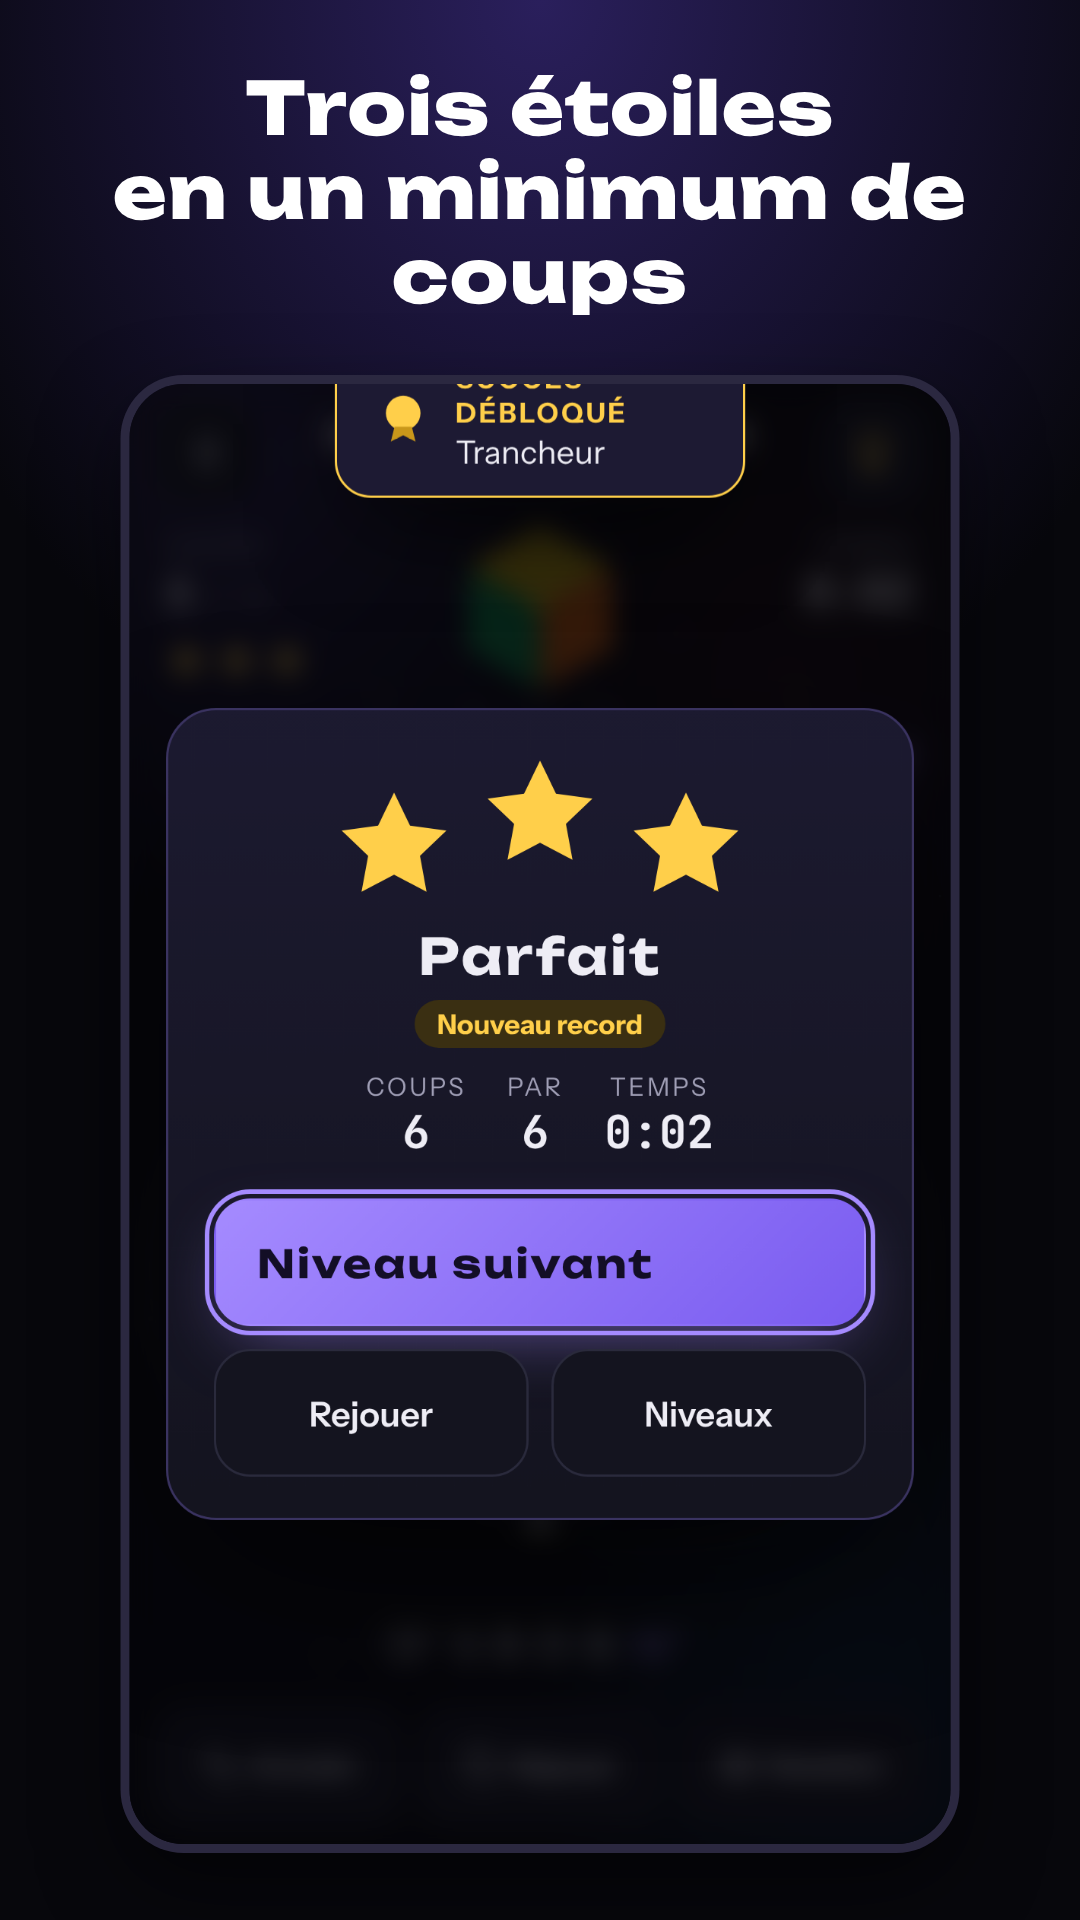
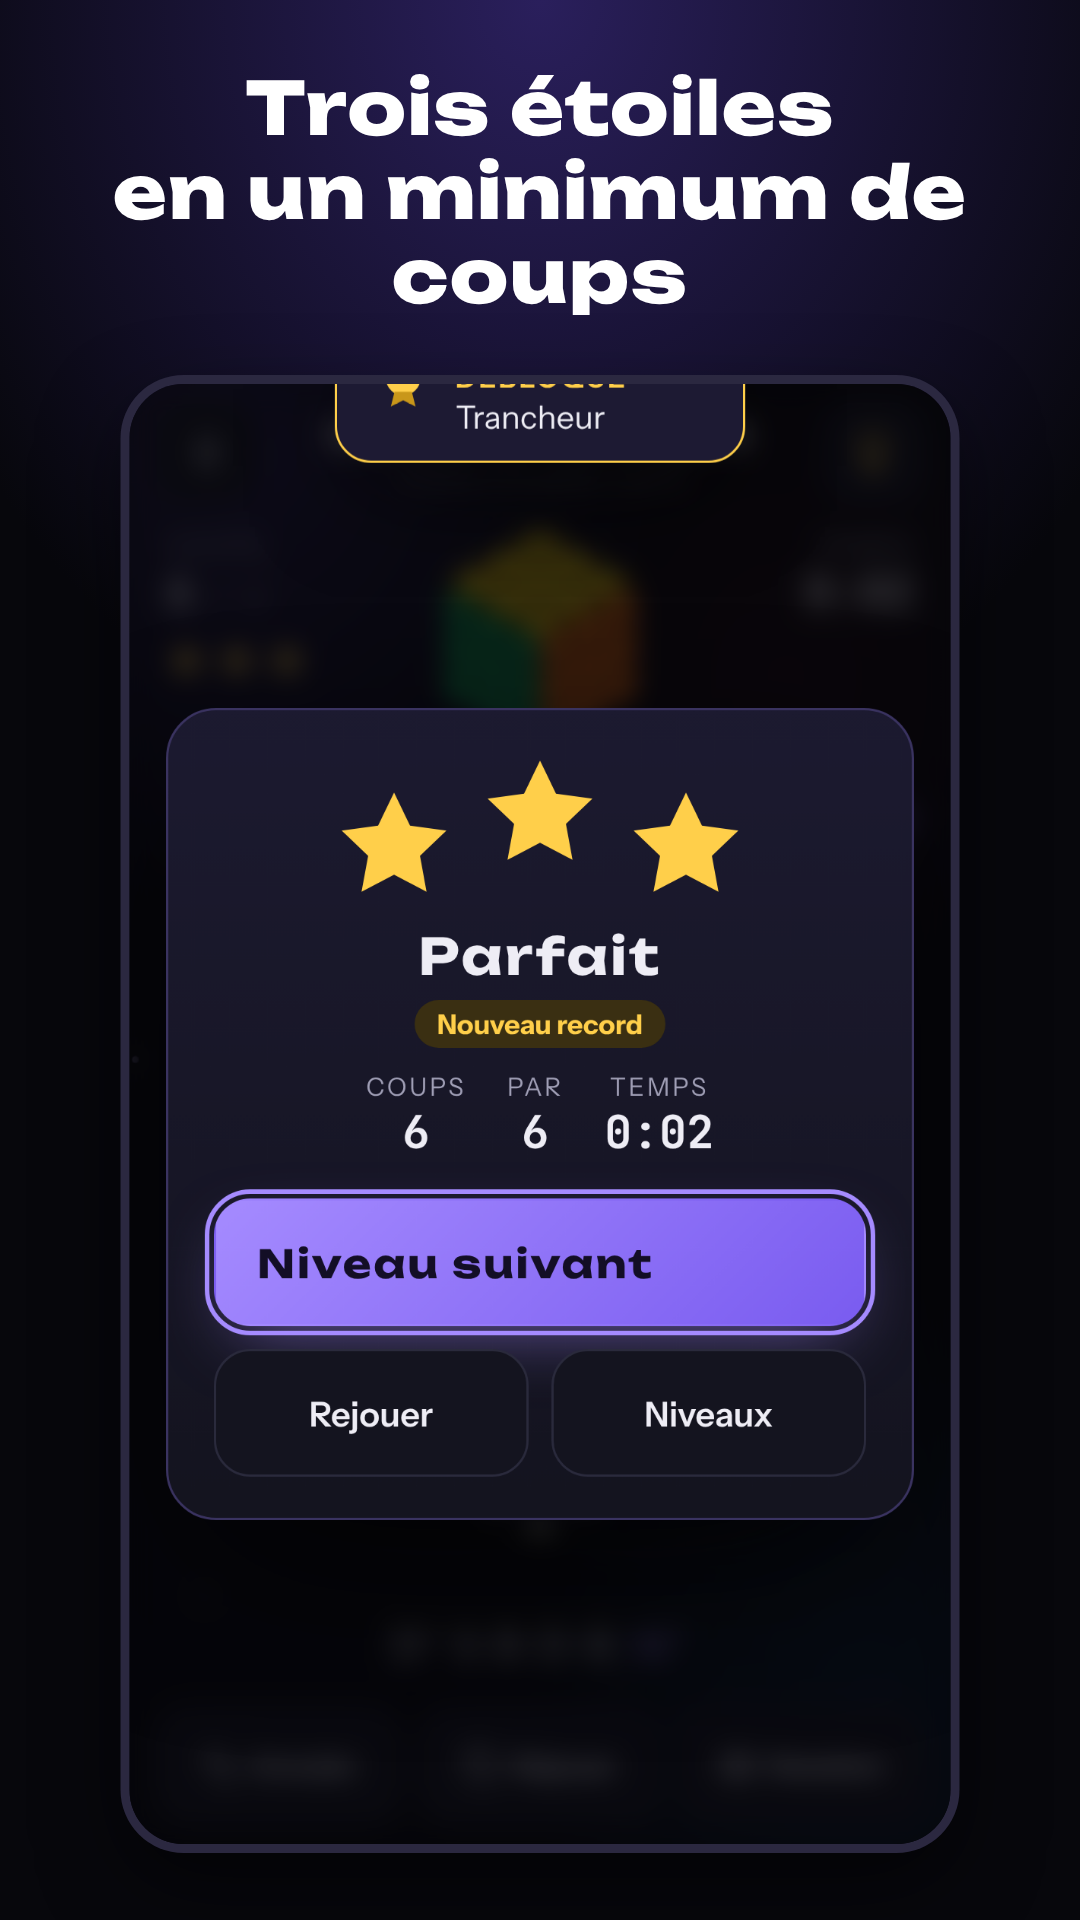
Plateau : une marge de chaque côté, les cercles ne frôlent plus les bords ; cube de nouveau jusqu'à 150 px
Claude-Session: https://claude.ai/code/session_0149xvqQAFsWoXJkF64USQEK

Changed region(s): [[0.3056, 0.1875, 0.7028, 0.375]]

diff --git a/orbicube/www/index.html b/orbicube/www/index.html
@@ -782,14 +782,14 @@ function dessinerMini(){if(!PROG.options.cube)return;var w=mini.clientWidth||84,
   dessinerCube(miniC,w,JeuP.col,JeuP.anim,VUE,PIVOT);}
 JeuP.apres=function(){dessinerMini();if(J&&J.t0&&!J.fini&&!J.enPause)document.getElementById("jTemps").textContent=fmt(performance.now()-J.t0);};
 function fmt(ms){var s=Math.floor(ms/1000);return Math.floor(s/60)+":"+String(s%60).padStart(2,"0");}
-// Le plateau prend toute la largeur ; le cube, au centre de la ligne des coups et du temps, prend la
-// hauteur qui reste (entre 64 et 120 px). Sur un écran court, il rapetisse avant que le plateau ne le fasse.
+// Le plateau prend la largeur, moins une marge pour que les cercles ne frôlent pas les bords (le client, le 11/10/2026) ; le cube, au centre de la ligne des coups et du temps, prend la
+// hauteur qui reste (entre 64 et 150 px). Sur un écran court, il rapetisse avant que le plateau ne le fasse.
 function redimJeu(){var jeu=document.getElementById("jeu"),z=document.getElementById("zonePlateau");if(!jeu.clientWidth)return;
   if(PROG.options.cube){var paysage=getComputedStyle(jeu).display==="grid",
       autres=jeu.querySelector(".jtete").offsetHeight+jeu.querySelector(".jbas").offsetHeight+30,
-      c=paysage?96:Math.max(64,Math.min(120,jeu.clientHeight-autres-Math.min(jeu.clientWidth,560)-12));
+      c=paysage?96:Math.max(64,Math.min(150,jeu.clientHeight-autres-Math.min(jeu.clientWidth-28,560)-12));
     jeu.style.setProperty("--cube",Math.round(c)+"px");}
-  var r=z.getBoundingClientRect();if(!r.width)return;JeuP.dimension(Math.min(r.width,r.height-8));dessinerMini();}
+  var r=z.getBoundingClientRect();if(!r.width)return;JeuP.dimension(Math.min(r.width-28,r.height-8));dessinerMini();}
 function redimAide(){var w=document.getElementById("aideCanvas").getBoundingClientRect().width;if(w)AideP.dimension(w);}
 var ro=new ResizeObserver(function(){if(ECRAN==="jeu")redimJeu();if(ECRAN==="accueil")Logo.demarrer();if(ECRAN==="aide")redimAide();});
 ["zonePlateau","logo","aideCanvas"].forEach(function(id){ro.observe(document.getElementById(id));});

diff --git a/orbicube/www/sw.js b/orbicube/www/sw.js
@@ -1,6 +1,6 @@
 // Version web (PWA) : tout le jeu est mis en cache pour se jouer hors ligne.
 // Incrémenter V à chaque publication, sinon les joueurs gardent l'ancienne version.
-var V = "orbicube-v11";
+var V = "orbicube-v12";
 var FICHIERS = ["./", "index.html", "config.js", "natif.js", "langues.js", "manifest.webmanifest", "confidentialite.html",
   "icones/favicon.png", "icones/apple-touch-icon.png", "icones/icon-192.png", "icones/icon-512.png", "icones/icon-maskable-512.png",
   "polices/polices.css", "polices/Unbounded-normal-700.woff2", "polices/Unbounded-normal-800.woff2",

diff --git a/CLAUDE.md b/CLAUDE.md
@@ -53,8 +53,8 @@ contresens). Un contrôle neuf s'éprouve de la même façon avant d'être cru.
   pastilles casse les faces en anneau : ne pas la reprendre. Ces deux constantes sont recopiées dans
   `outils/icones.py` et `outils/tester.js` (geste le long de U) : les changer aux trois endroits.
 - **Le cube en perspective est au centre de la ligne des coups et du temps** (le client, le 11/10/2026,
-  « l'endroit optimal ») : le plateau prend d'abord toute la largeur, et `redimJeu()` donne au cube la
-  hauteur qui reste (`--cube`, de 64 à 120 px). Pas en filigrane : des couleurs derrière les pastilles
+  « l'endroit optimal ») : le plateau prend d'abord la largeur moins 14 px de chaque côté, et `redimJeu()` donne au cube la
+  hauteur qui reste (`--cube`, de 64 à 150 px). Pas en filigrane : des couleurs derrière les pastilles
   se confondraient avec elles.
 - Les niveaux de campagne sont tirés d'une graine fixe (`orbicube-<monde>-<niveau>`) : changer
   `genererMelange()` change tous les niveaux des joueurs. Ne le faire qu'avec une nouvelle graine.
